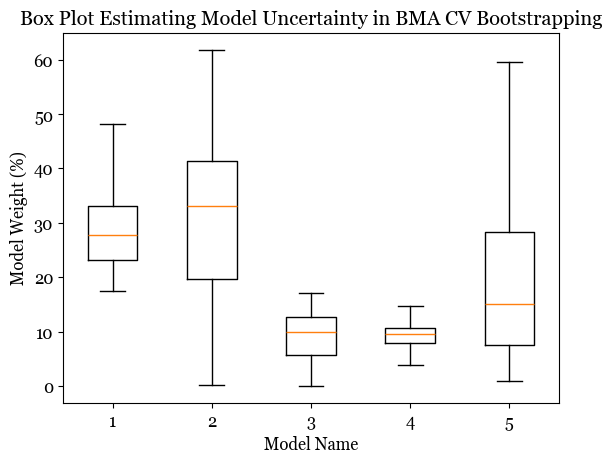
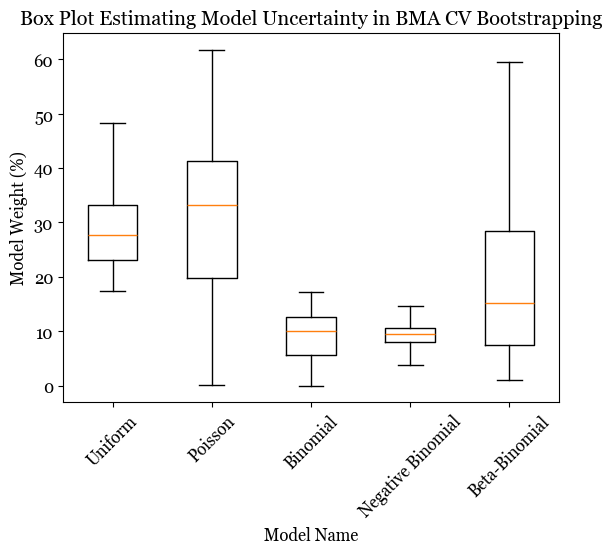
updated readme and image outputs

diff --git a/README.md b/README.md
@@ -16,4 +16,4 @@ Cross-Validated BMA with 12 folds provides a minor improvement:
 
 We can visualize the model uncertainty estimated by cross-validation:
 
-![Model Uncertainty](output/box%20plot%20of%20model%20weights%20in%20bma.png)
+![Model Uncertainty](output/box%20plot%20of%20model%20weights%20of%20components%20in%20bma.png)
